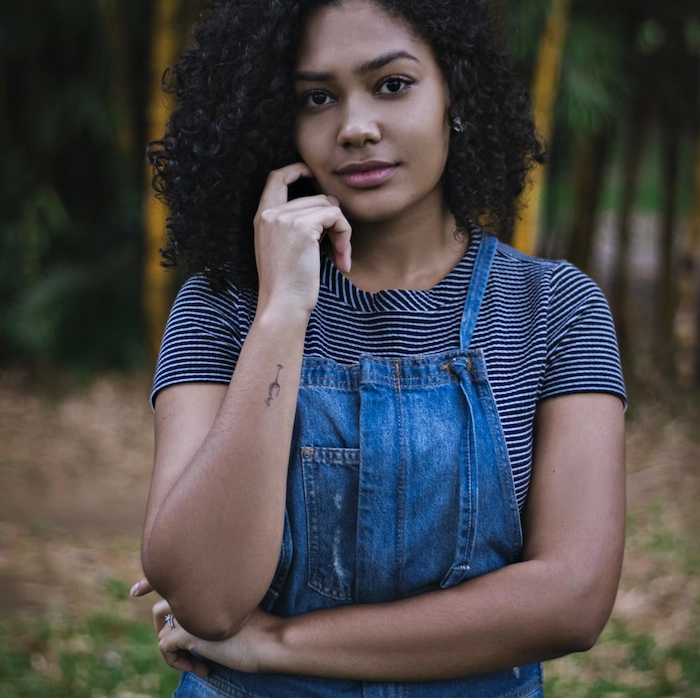
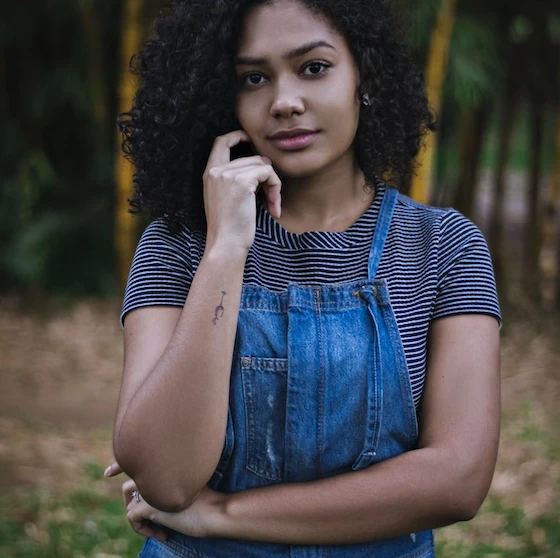
Mofifications sur les images (fichier - HTML - CSS)

diff --git a/assets/style.min.css b/assets/style.min.css
@@ -1,2 +1,1 @@
-/* prettier-ignore */
-body{max-width:1920px;margin:auto}*{font-family:"Inter";font-style:normal}.top-header{background-color:#fff;position:sticky;top:0;z-index:1000;display:flex;justify-content:space-between;padding-inline:100px;padding-block:30px;align-items:center}.top-header .name{font-size:26px}.nav ul{display:flex;list-style-type:none;font-size:14px;margin-bottom:0}.nav li{padding-inline:10px}.nav a{text-decoration:none;color:#000}.social-link img{width:20px}.visually-hidden{color:black;background-color:white}#about{display:flex;background-color:#f6d2b8;padding-inline:100px;padding-block:100px;position:relative}.picture.left::before{content:" ";background-color:#e5975f;width:374px;height:329px;position:absolute;bottom:0;left:0;z-index:-1}.picture{flex:1;margin:0 20px;z-index:0}.picture img{width:100%}#about-me{flex:2}.about-me__title{margin-top:1em;margin-bottom:60px;font-size:30px}.about-me__introduction{font-size:16px;font-family:"Spectral";font-weight:800;font-style:italic;width:60%}#about-me p{width:80%;font-size:14px}.title{text-align:center;padding-block:2em}.gallery .nav{justify-content:center}.nav-pills .nav-link.active,.nav-pills .show>.nav-link{color:#000;background-color:#beb45a;border-radius:0}.nav-pills .nav-link{color:#000}.item-column{position:relative;margin-bottom:0!important;padding:0}.item-column::after{content:"";display:block;padding-bottom:100%}.gallery-item{position:absolute;width:100%;height:100%;object-fit:cover;padding:.5em}.mg-prev,.mg-next{width:30px;height:30px;border-radius:0%;justify-content:center;align-items:center;display:flex;font-size:24px}.quote{font-family:"Spectral";font-style:italic;width:70%;margin:auto;padding-block:3em}.quote__text{font-size:40px;font-family:Spectral;font-style:italic;font-weight:300}.quote__author{font-family:Spectral;font-weight:800;font-size:22px}#services{margin:auto;background-color:#a8d5d8;position:relative}#services .container::before{content:" ";background-color:#1c6474;position:absolute;width:100%;height:30%;bottom:0;left:0;z-index:0}#services .container{justify-content:space-between;display:flex;padding:2em 0}.service{background-color:#fff;max-width:390px;width:30%;height:337px;padding:1em;display:flex;flex-direction:column;justify-content:space-between;z-index:1}#contact{margin:auto;background-color:#d8d3a8;position:relative;padding-inline:100px;padding-block:100px}#contact .container{display:flex}.picture.right::before{content:" ";background-color:#beb45a;width:374px;height:329px;position:absolute;bottom:0;right:0;z-index:-1}.form-container{flex:2}form{display:flex;flex-direction:column;width:70%;align-items:flex-start}form input{width:100%;background-color:#fff0;border:solid 1px;height:2.5em;margin-bottom:20px}form textarea{width:100%;background-color:#fff0;border:solid 1px;height:5em;line-height:2.5em;font-size:1.2em;margin-bottom:20px}input[type="submit"]{background-color:#beb45a;padding:.5em 1em}footer{width:100%;background-color:#000;color:#fff;font-size:14px;padding:40px 115px 10px}.container-grid{display:grid;grid-template-columns:repeat(3,1fr)}.title-footer{font-size:24px;margin-bottom:15px}.address{margin-bottom:16px}.address span{line-height:16px;margin-bottom:16px}.social-icons{display:flex;flex-direction:row;justify-content:center;align-items:center;height:100%;gap:20px;padding:0;list-style-type:none}.social-icons i{color:#fff;font-size:30px;transition:font-size 0.3s}.social-icons i:hover{font-size:24px}.phone-hours{display:flex;flex-direction:column;align-items:flex-end}.phone-dispo{display:flex;flex-direction:column;align-items:flex-end}.phone{font-size:18px}.copyright{font-size:12px;margin-top:20px;display:flex;justify-content:center}@media all and (max-width:1180px){.picture{flex:2}#about,#contact .container{align-items:center}.about-me__title{margin-top:0;margin-bottom:1em}#about-me h6,#about-me p{width:100%}}@media all and (max-width:1000px){#about{flex-direction:column}.picture{width:50%}.picture.left::before{width:100%;height:30%;position:absolute;bottom:auto;top:0;left:0;z-index:-1}.about-me__title{text-align:center;margin-top:1em}#services .container{flex-direction:column}.service{width:100%;max-width:100%;height:auto;margin:2em 0}.service__description{margin-bottom:1em}#services .container::before{width:30%;height:100%;bottom:0;right:0;left:auto;z-index:0}#contact .container{flex-direction:column}#contact .picture.right{margin-top:1em}.picture.right::before{width:100%;height:30%;position:absolute;bottom:0;right:0;z-index:-1}footer{font-size:12px;padding:40px 40px 10px}}@media all and (max-width:650px){.top-header{flex-direction:column;padding-inline:0}.top-header .nav,.top-header .nav ul{width:100%;padding:0 0 0 0}.top-header .nav li{flex:1;padding-block:1em;text-align:center}.picture.left::before,.picture.right::before{height:150px}#services .container{align-items:center}.service{max-width:90%}#about,#contact{padding-inline:2em;padding-block:2em}form{width:100%}.picture{width:80%}footer{font-size:12px;padding:30px 20px 10px}.container-grid{display:grid;grid-template-columns:1fr;justify-content:center}.address-container{display:flex;flex-direction:column;justify-content:center;align-items:center}.title-footer{font-size:24px;margin-bottom:15px}.address{margin-bottom:16px}.address span{line-height:16px;margin-bottom:16px}.zipcode{display:flex;justify-content:center}.social-icons{display:flex;flex-direction:row;justify-content:center;align-items:center;height:100%;gap:20px;padding:40px 0 50px;margin:0;list-style-type:none}.social-icons i{color:#fff;font-size:30px;transition:font-size 0.3s}.social-icons i:hover{font-size:24px}.phone-hours{display:flex;flex-direction:column;align-items:center}.phone-dispo{display:flex;flex-direction:column;align-items:center}.phone{font-size:14px}.copyright{font-size:12px;margin-top:30px;display:flex;justify-content:center}}
+body{max-width:1920px;margin:auto}*{font-family:"Inter";font-style:normal}.top-header{background-color:#fff;position:sticky;top:0;z-index:1000;display:flex;justify-content:space-between;padding-inline:100px;padding-block:30px;align-items:center}.top-header .name{font-size:26px}.nav ul{display:flex;list-style-type:none;font-size:14px;margin-bottom:0}.nav li{padding-inline:10px}.nav a{text-decoration:none;color:#000}.social-link img{width:20px}.carousel-inner{max-width:100%;height:auto}.visually-hidden{color:#000;background-color:#fff}#about{display:flex;background-color:#f6d2b8;padding-inline:100px;padding-block:100px;position:relative}.picture.left{width:100%;max-width:560px;min-width:205px;height:auto}.picture.left img{max-width:100%;height:auto}.picture.left::before{content:" ";background-color:#e5975f;width:374px;height:329px;position:absolute;bottom:0;left:0;z-index:-1}.picture{flex:1;margin:0 20px;z-index:0}#about-me{flex:2}.about-me__title{margin-top:1em;margin-bottom:60px;font-size:30px}.about-me__introduction{font-size:16px;font-family:"Spectral";font-weight:800;font-style:italic;width:60%}#about-me p{width:80%;font-size:14px}.title{text-align:center;padding-block:2em}.gallery .nav{justify-content:center}.nav-pills .nav-link.active,.nav-pills .show>.nav-link{color:#000;background-color:#beb45a;border-radius:0}.nav-pills .nav-link{color:#000}.item-column{position:relative;margin-bottom:0!important;padding:0}.item-column::after{content:"";display:block;padding-bottom:100%}.gallery-item{position:absolute;width:100%;height:100%;object-fit:cover;padding:.5em}.mg-prev,.mg-next{width:30px;height:30px;border-radius:0%;justify-content:center;align-items:center;display:flex;font-size:24px}.quote{font-family:"Spectral";font-style:italic;width:70%;margin:auto;padding-block:3em}.quote__text{font-size:40px;font-family:Spectral;font-style:italic;font-weight:300}.quote__author{font-family:Spectral;font-weight:800;font-size:22px}#services{margin:auto;background-color:#a8d5d8;position:relative}#services .container::before{content:" ";background-color:#1c6474;position:absolute;width:100%;height:30%;bottom:0;left:0;z-index:0}#services .container{justify-content:space-between;display:flex;padding:2em 0}.service{background-color:#fff;max-width:390px;width:30%;height:337px;padding:1em;display:flex;flex-direction:column;justify-content:space-between;z-index:1}#contact{margin:auto;background-color:#d8d3a8;position:relative;padding-inline:100px;padding-block:100px}#contact .container{display:flex}.picture.right{width:100%;max-width:418px;min-width:185px;height:auto}.picture.right img{max-width:100%;height:auto}.picture.right::before{content:" ";background-color:#beb45a;width:374px;height:329px;position:absolute;bottom:0;right:0;z-index:-1}.form-container{flex:2}form{display:flex;flex-direction:column;width:70%;align-items:flex-start}form input{width:100%;background-color:#fff0;border:solid 1px;height:2.5em;margin-bottom:20px}form textarea{width:100%;background-color:#fff0;border:solid 1px;height:5em;line-height:2.5em;font-size:1.2em;margin-bottom:20px}input[type="submit"]{background-color:#beb45a;padding:.5em 1em}footer{width:100%;background-color:#000;color:#fff;font-size:14px;padding:40px 115px 10px}.container-grid{display:grid;grid-template-columns:repeat(3,1fr)}.title-footer{font-size:24px;margin-bottom:15px}.address{margin-bottom:16px}.address span{line-height:16px;margin-bottom:16px}.social-icons{display:flex;flex-direction:row;justify-content:center;align-items:center;height:100%;gap:20px;padding:0;list-style-type:none}.social-icons i{color:#fff;font-size:30px;transition:font-size 0.3s}.social-icons i:hover{font-size:24px}.phone-hours{display:flex;flex-direction:column;align-items:flex-end}.phone-dispo{display:flex;flex-direction:column;align-items:flex-end}.phone{font-size:18px}.copyright{font-size:12px;margin-top:20px;display:flex;justify-content:center}@media all and (max-width:1180px){.picture{flex:2}#about,#contact .container{align-items:center}.about-me__title{margin-top:0;margin-bottom:1em}#about-me h6,#about-me p{width:100%}}@media all and (max-width:1000px){#about{flex-direction:column}.picture{width:50%}.picture.left::before{width:100%;height:30%;position:absolute;bottom:auto;top:0;left:0;z-index:-1}.about-me__title{text-align:center;margin-top:1em}#services .container{flex-direction:column}.service{width:100%;max-width:100%;height:auto;margin:2em 0}.service__description{margin-bottom:1em}#services .container::before{width:30%;height:100%;bottom:0;right:0;left:auto;z-index:0}#contact .container{flex-direction:column}#contact .picture.right{margin-top:1em}.picture.right::before{width:100%;height:30%;position:absolute;bottom:0;right:0;z-index:-1}footer{font-size:12px;padding:40px 40px 10px}}@media all and (max-width:650px){.top-header{flex-direction:column;padding-inline:0}.top-header .nav,.top-header .nav ul{width:100%;padding:0 0 0 0}.top-header .nav li{flex:1;padding-block:1em;text-align:center}.picture-left{width:150px;height:150px}.picture.left::before,.picture.right::before{height:150px}#services .container{align-items:center}.service{max-width:90%}#about,#contact{padding-inline:2em;padding-block:2em}form{width:100%}.picture{width:80%}footer{font-size:12px;padding:30px 20px 10px}.container-grid{display:grid;grid-template-columns:1fr;justify-content:center}.address-container{display:flex;flex-direction:column;justify-content:center;align-items:center}.title-footer{font-size:24px;margin-bottom:15px}.address{margin-bottom:16px}.address span{line-height:16px;margin-bottom:16px}.zipcode{display:flex;justify-content:center}.social-icons{display:flex;flex-direction:row;justify-content:center;align-items:center;height:100%;gap:20px;padding:40px 0 50px;margin:0;list-style-type:none}.social-icons i{color:#fff;font-size:30px;transition:font-size 0.3s}.social-icons i:hover{font-size:24px}.phone-hours{display:flex;flex-direction:column;align-items:center}.phone-dispo{display:flex;flex-direction:column;align-items:center}.phone{font-size:14px}.copyright{font-size:12px;margin-top:30px;display:flex;justify-content:center}}

diff --git a/index.html b/index.html
@@ -15,12 +15,6 @@
       content="photographe d'évènements, photographie d'évènements, photographie corporative, photographe d'entreprise, photographie d'entreprise, photographe de mariage, photographie de mariage, photographie, portraits, photographe en région bordelaise"
     />
 
-    <!-- <link
-      rel="preload"
-      as="image"
-      href="./assets/images/slider/paysage-urbain-tokyo-japon1920.webp"
-    /> -->
-
     <!-- Balises Open Graph ajoutées pour les Réseaux sociaux comme Facebook, Instagram, ... -->
     <meta
       property="og:title"
@@ -54,12 +48,7 @@
       media="screen"
     />
     <link rel="preload" href="./assets/style.min.css" as="style" />
-    <!-- <link
-      rel="stylesheet"
-      href="https://cdn.jsdelivr.net/npm/bootstrap@5.3.2/dist/css/bootstrap.min.css"
-      integrity="sha384-T3c6CoIi6uLrA9TneNEoa7RxnatzjcDSCmG1MXxSR1GAsXEV/Dwwykc2MPK8M2HN"
-      crossorigin="anonymous"
-    /> -->
+
     <link rel="stylesheet" href="./assets/style.min.css" media="screen" />
     <link
       rel="preload"
@@ -91,6 +80,8 @@
               ><img
                 src="assets/images/logo-icon-instagram.webp"
                 alt="Instagram de Nina Carducci"
+                width="20"
+                height="20"
             /></a>
           </li>
         </ul>
@@ -131,14 +122,15 @@
                 src="./assets/images/slider/paysage-urbain-tokyo-japon1920.webp"
                 class="d-block w-100"
                 alt="Paysage urbain Tokyo - Japon"
+                width="1920"
               />
             </div>
             <div class="carousel-item">
               <img
-                loading="lazy"
                 src="./assets/images/slider/foule-enthousiaste-lors-d-un-concert1920.webp"
                 class="d-block w-100"
                 alt="Foule enthousiaste lors d'un concert"
+                width="1920"
               />
             </div>
             <div class="carousel-item">
@@ -147,6 +139,7 @@
                 src="./assets/images/slider/jeunes-maries-dansant-et-s-embrassant-lors-de-leur-mariage-entoures-de-leurs-invites1920.webp"
                 class="d-block w-100"
                 alt="Jeunes mariés dansant et s'embrassant lors de leur mariage, entourés de leurs invités"
+                width="1920"
               />
             </div>
           </div>
@@ -176,9 +169,10 @@
       <section id="about" aria-labelledby="about-me-title">
         <div class="picture left">
           <img
-            loading="lazy"
             src="./assets/images/nina-carducci.webp"
             alt="Portrait de Nina Carducci"
+            width="560"
+            height="558"
           />
         </div>
         <div id="about-me">
@@ -213,6 +207,8 @@
               class="gallery-item"
               src="./assets/images/gallery/concerts/groupe-de-musiciens-sur-fond-de-lumieres-rouges700.webp"
               alt="Concert - Groupe de musiciens sur fond de lumières rouges"
+              width="440"
+              height="440"
             />
             <img
               loading="lazy"
@@ -220,6 +216,8 @@
               class="gallery-item"
               src="./assets/images/gallery/entreprise/portrait-d-homme-d-affaires700.webp"
               alt="Entreprises - Portrait d'homme d'affaires"
+              width="440"
+              height="440"
             />
             <img
               loading="lazy"
@@ -227,6 +225,8 @@
               class="gallery-item"
               src="./assets/images/gallery/entreprise/jeunes-femmes-qui-sourient700.webp"
               alt="Entreprises - Jeunes femmes qui sourient"
+              width="440"
+              height="440"
             />
             <img
               loading="lazy"
@@ -234,6 +234,8 @@
               class="gallery-item"
               src="./assets/images/gallery/mariage/jeunes-maries-qui-se-tendent-les-mains700.webp"
               alt="Mariages - Jeunes mariés qui se tendent les mains"
+              width="440"
+              height="440"
             />
             <img
               loading="lazy"
@@ -241,6 +243,8 @@
               class="gallery-item"
               src="./assets/images/gallery/portraits/portrait-d-un-homme-ebloui-par-le-soleil700.webp"
               alt="Portrait - Portrait d'un homme ebloui par le soleil"
+              width="440"
+              height="440"
             />
             <img
               loading="lazy"
@@ -248,6 +252,8 @@
               class="gallery-item"
               src="./assets/images/gallery/mariage/jeunes-maries-heureux-sur-fond-vegetal-avec-palmier700.webp"
               alt="Mariages - Jeunes mariés heureux sur fond végétal avec palmier"
+              width="440"
+              height="440"
             />
             <img
               loading="lazy"
@@ -255,6 +261,8 @@
               class="gallery-item"
               src="./assets/images/gallery/portraits/jeune-femme-a-lunettes-aux-cheveux-dans-le-vent700.webp"
               alt="Portrait - Portrait d'une jeune femme à lunettes et les cheveux dans le vent"
+              width="440"
+              height="440"
             />
             <img
               loading="lazy"
@@ -262,6 +270,8 @@
               class="gallery-item"
               src="./assets/images/gallery/concerts/chanteur-en-plein-concert-avec-des-effets-de-lumiere-colores-et-de-la-fumee-en-arriere-plan700.webp"
               alt="Concert - Chanteur en plein concert avec des effets de lumière colorés et de fumée"
+              width="440"
+              height="440"
             />
             <img
               loading="lazy"
@@ -269,6 +279,8 @@
               class="gallery-item"
               src="./assets/images/gallery/entreprise/eclat-de-rire-d-une-jeune-femme-a-son-bureau700.webp"
               alt="Entreprises - Eclat de rire d'une jeune femme à son bureau"
+              width="440"
+              height="440"
             />
           </div>
         </div>
@@ -373,6 +385,8 @@
               loading="lazy"
               src="./assets/images/appareil-photo-argentique-vintage.webp"
               alt="Photo d'appareil photo argentique vintage"
+              width="418"
+              height="417"
             />
           </div>
         </div>
@@ -449,19 +463,6 @@
       crossorigin="anonymous"
     ></script>
     <script defer src="./assets/bootstrap/bootstrap.bundle.min.js"></script>
-    <!-- <script
-      defer
-      src="https://cdn.jsdelivr.net/npm/bootstrap@5.3.2/dist/js/bootstrap.bundle.min.js"
-      integrity="sha384-C6RzsynM9kWDrMNeT87bh95OGNyZPhcTNXj1NW7RuBCsyN/o0jlpcV8Qyq46cDfL"
-      crossorigin="anonymous"
-    ></script>
-    <script
-      defer
-      src="https://cdn.jsdelivr.net/npm/bootstrap@5.3.2/dist/js/bootstrap.min.js"
-      integrity="sha384-BBtl+eGJRgqQAUMxJ7pMwbEyER4l1g+O15P+16Ep7Q9Q+zqX6gSbd85u4mG4QzX+"
-      crossorigin="anonymous"
-    ></script> -->
-
     <script defer src="./assets/maugallery.min.js"></script>
     <script defer src="./assets/scripts.min.js"></script>
     <script

diff --git a/assets/style.css b/assets/style.css
@@ -65,7 +65,10 @@ body {
   max-width: 560px;
   min-width: 205px;
   height: auto;
-  aspect-ratio: 1.0028;
+}
+.picture.left img {
+  max-width: 100%;
+  height: auto;
 }
 
 .picture.left::before {
@@ -85,9 +88,6 @@ body {
   z-index: 0;
 }
 
-.picture img {
-  width: 100%;
-}
 #about-me {
   flex: 2;
 }
@@ -219,15 +219,18 @@ body {
 #contact .container {
   display: flex;
 }
-.picture-right {
+.picture.right {
   width: 100%;
   max-width: 418px;
   min-width: 185px;
   height: auto;
-  aspect-ratio: 1.00196; /* Ratio calculé à partir des valeurs données */
+}
+.picture.right img {
+  max-width: 100%;
+  height: auto;
 }
 
-.picture-right::before {
+.picture.right::before {
   content: " ";
   background-color: #beb45a;
   width: 374px;
@@ -365,13 +368,6 @@ footer {
   .picture {
     width: 50%;
   }
-  /* .picture-left {
-    width: 100%;
-    max-width: 560px;
-    min-width: 204.8px;
-    height: auto;
-    aspect-ratio: 1.0028;
-  } */
   .picture.left::before {
     width: 100%;
     height: 30%;
